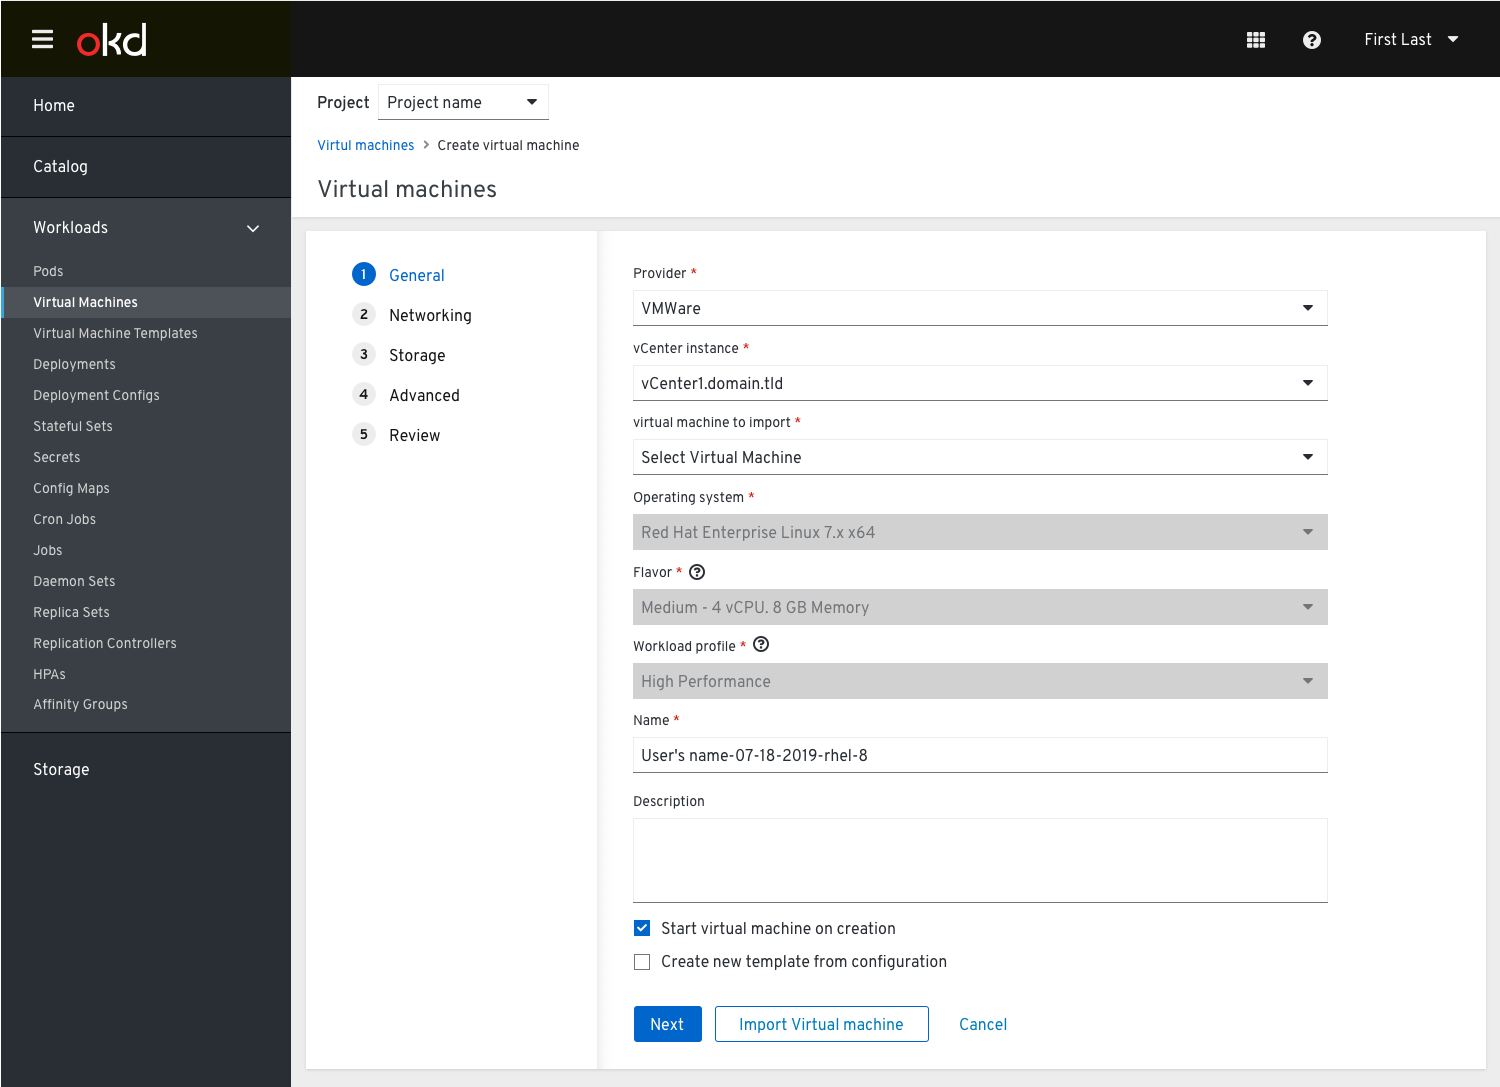
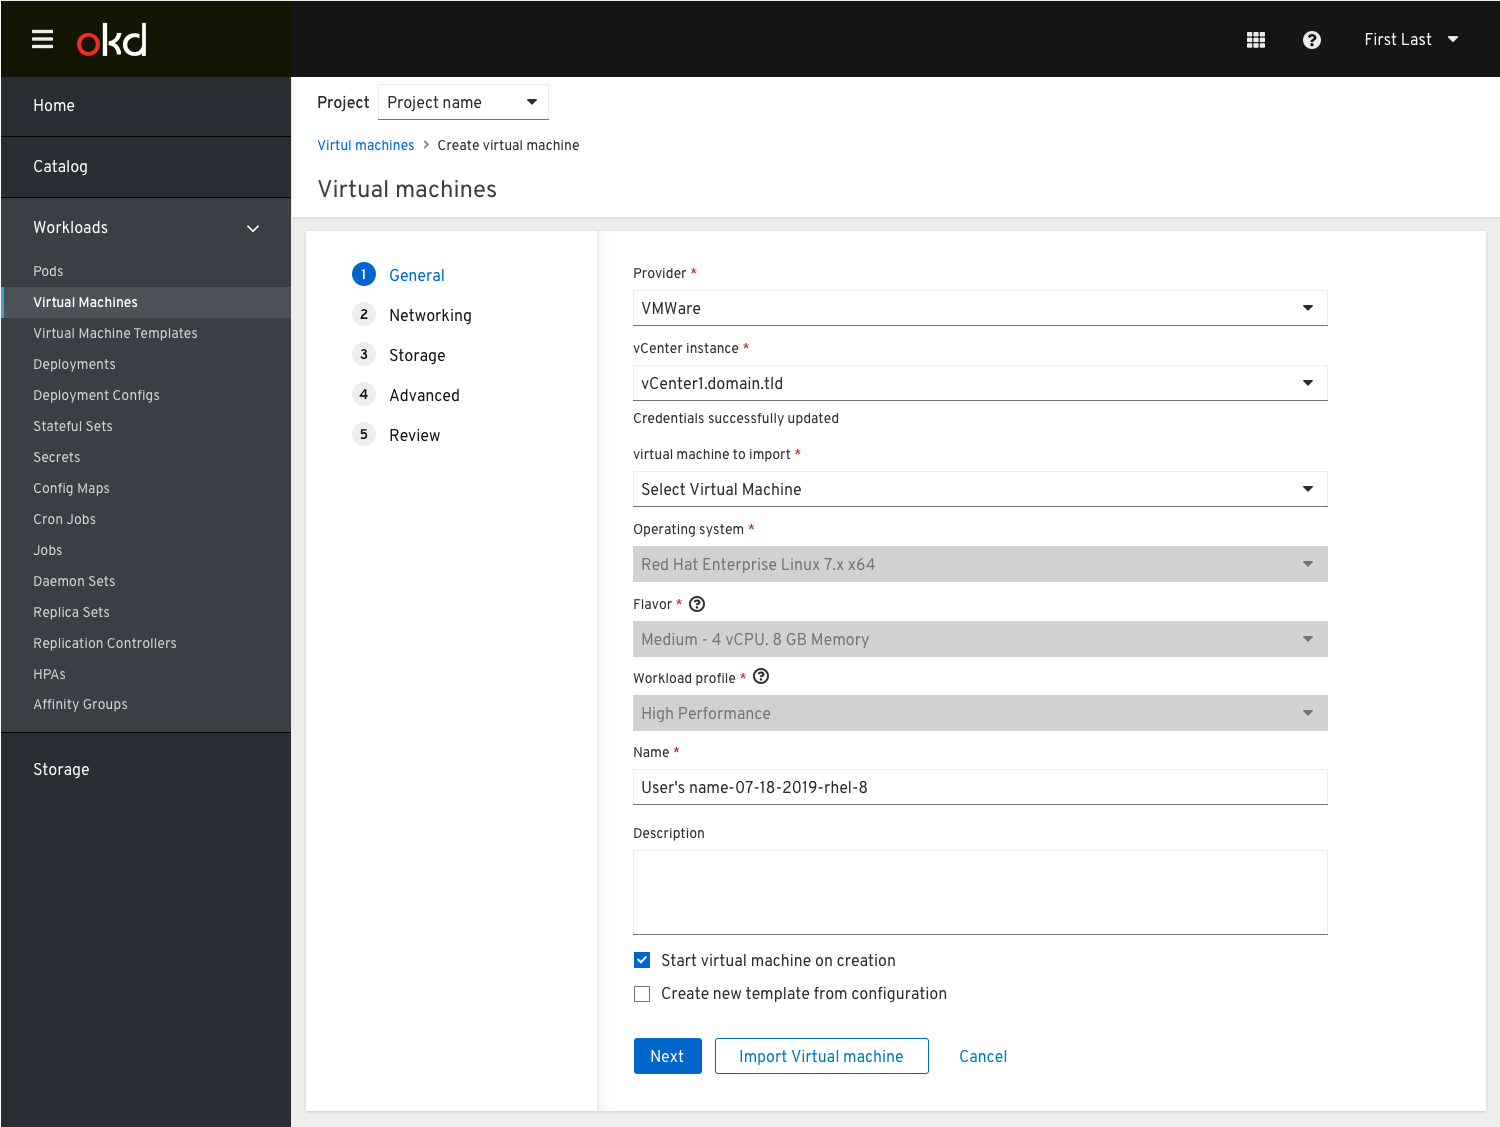
textual changes and adding credentials successfully updated text

diff --git a/web-console/knikubevirt/wizard-import/wizard-import.md b/web-console/knikubevirt/wizard-import/wizard-import.md
@@ -37,7 +37,7 @@ When the user clicks the “Check” button a spinner icon appears within the bu
 
 ### Selecting virtual machine
 
-When a vCenter instance is selected, The ‘Virtual Machine to import’ dropdown is available with all the available VMs.
+When a vCenter instance is selected, The ‘Virtual machine to import’ dropdown is available with all the available VMs.
 
 ![selecting virtual machine](img/selecting-virtual-machine.png)
 
@@ -49,7 +49,7 @@ If the wizard cannot connect to the vCenter instance using the credentials store
 
 ![vcenter connection incorrect credentials](img/vcenter-connection-incorrect-credentials.png)
 
-Once the credentials are checked and updated the username/password fields collapse.
+Once the credentials are checked and updated the username/password fields collapse, and upon successfully updating the credentials, a "Credentials successfully updated" text will show under the vCenter instance dropdown.
 
 ![credentials updated username psw fields collapse](img/credentials-updated-username-psw-fields-collapse.png)
 
@@ -68,6 +68,6 @@ If the wizard fails to connect to vCenter using the provided credentials, an err
 ### Virtual Machines available from new instance
 
 If the connection to vCenter succeeds, the instance details collapse (URL, Username, Password). The ‘Select virtual machine to import’ dropdown will then be populated with the available VMs.
-With the target virtual machine selected, the user can either quickly skip to Step 5 “Review and create” by clicking the “Import Virtual Machine” secondary action button, or click “Next” to proceed through the rest of the wizard.
+With a virtual machine selected, the user can either quickly skip to Step 5 “Review” by clicking the “Import Virtual Machine” secondary action button, or click “Next” to proceed through the rest of the wizard.
 
 ![vm available from newb instance](img/vm-available-from-new-instance.png)
